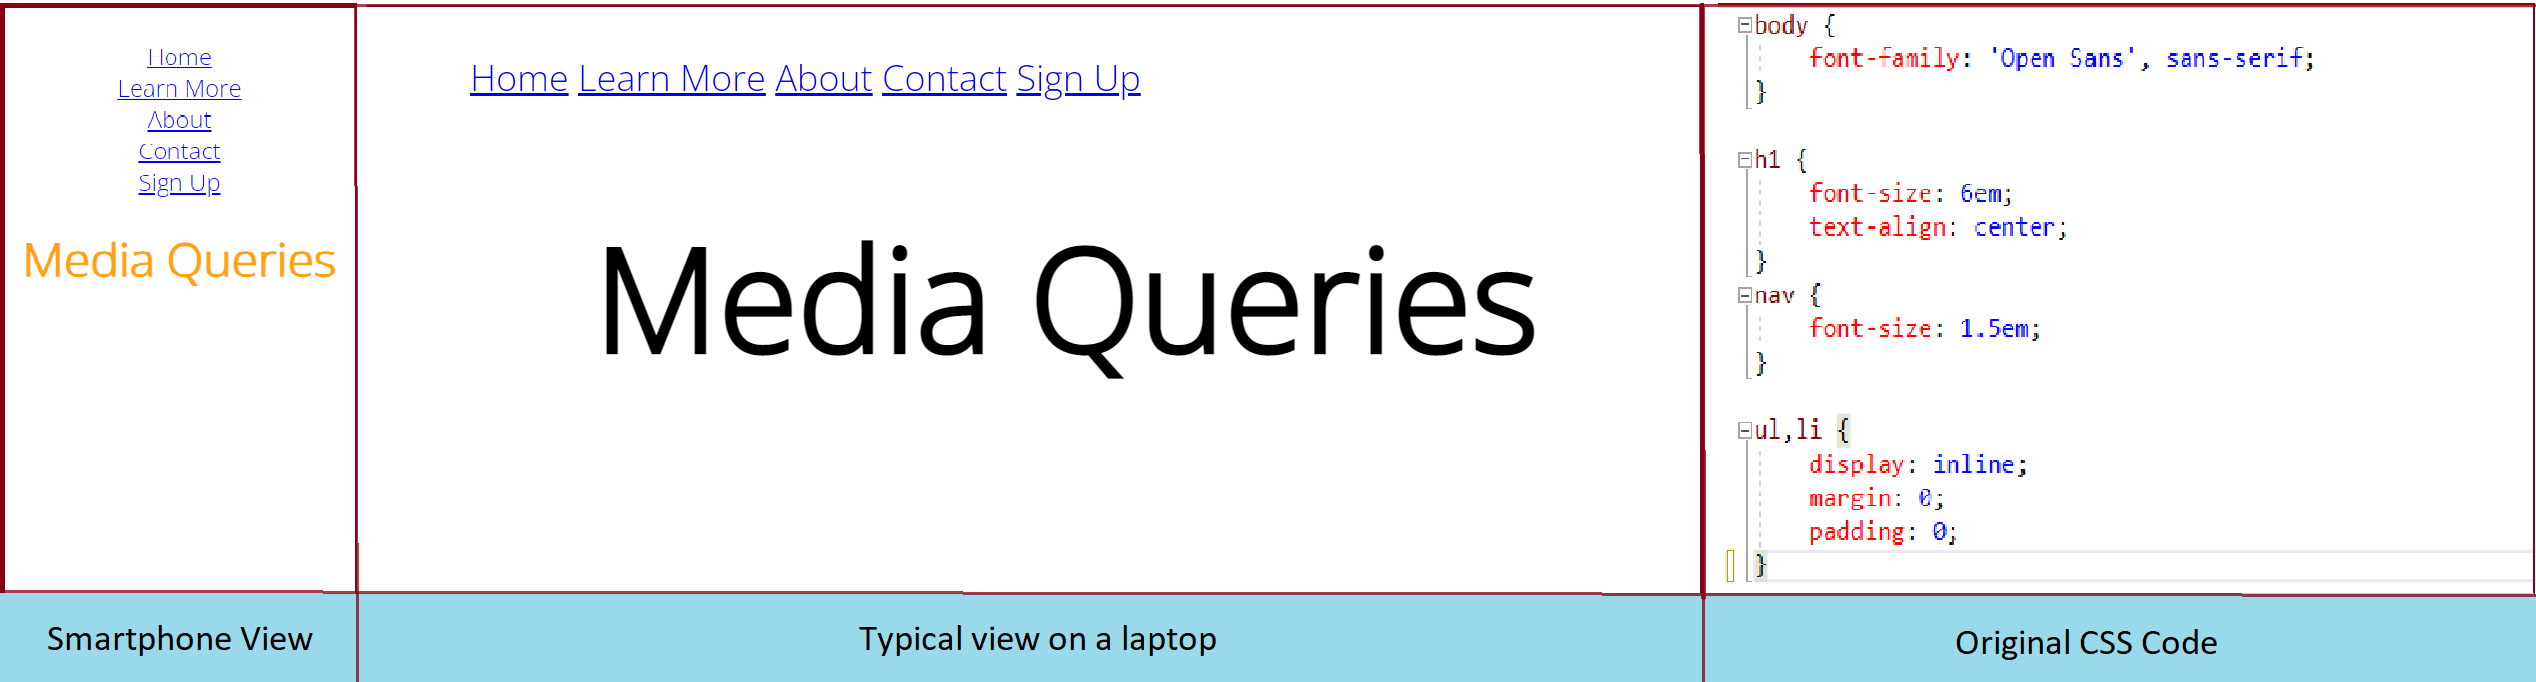
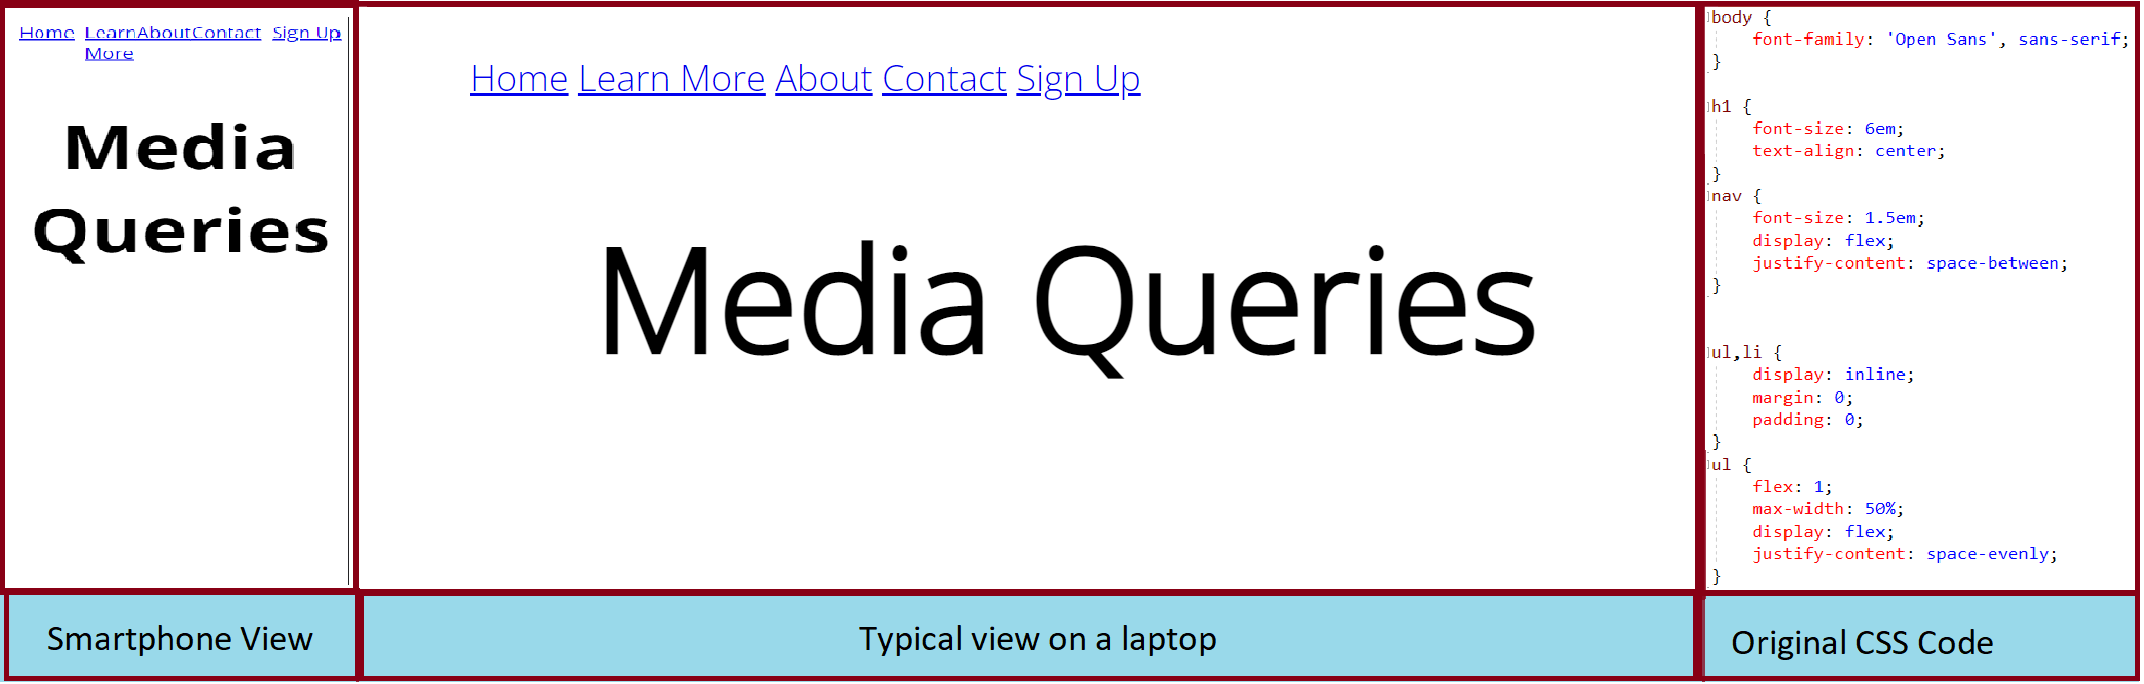
Small update

Changed region(s): [[0.0, 0.0, 1.0, 1.0], [0.3438, 0.9238, 0.5625, 0.9545], [0.6562, 0.2155, 0.7188, 0.2463]]

diff --git a/flexboxSection/flexboxPart2.html b/flexboxSection/flexboxPart2.html
@@ -140,74 +140,74 @@
         <h2><em>align-items</em></h2>
         <p>
             In Flexbox, the <strong>align-items</strong> property is used to align the items on the
-            <strong>cross-axis</strong> of a flex container. The
+            <strong>cross-axis</strong> of a flex container. Note how it constrasts with
+            <strong>justify-content</strong>! <strong>justify-content</strong> aligns items along the main axis, whereas
+            <strong>align-items</strong> aligns items along the cross axis! The
             cross-axis is the axis perpendicular to the main axis, which is determined by the
             <strong>flex-direction</strong> property.
         </p>
         <h3>Values of <em>align-items</em></h3>
         <p>The <strong>align-items</strong> property takes several possible values, including:</p>
         <ol>
-            <li><strong>stretch (default)</strong>: Stretches the items to fill the container along the cross axis. In
+            <li><strong>stretch (default)</strong>: Stretches the items to <strong>fill the container along the cross
+                    axis</strong>. In
                 non-flex items, the default is "normal".
-                <h4><strong>align-items:stretch;</strong></h4>
+                <pre>
+                    <code>
+                        #container {
+                            display: flex;
+                            flex-direction: row;
+                            justify-content: center;
+                            align-items:stretch;
+                            }
+                    </code>
+                    </pre>
                 <figure>
                     <img src="../images/flexboxImages/align-items-stretch.png" alt="align-items:stretch;">
-                    <figcaption><em>align-items:stretch;</em></figcaption>
+                    <figcaption><strong>align-items:stretch;</strong></figcaption>
                 </figure>
-                <pre>
-                <code>
-                    #container {
-                        display: flex;
-                        flex-direction: row;
-                        justify-content: center;
-                        align-items:stretch;
-                        }
-                </code>
-                </pre>
             </li>
-            <li><strong>flex-start</strong> aligns the items to the start of the container along the cross-axis.
-                <h4><strong>align-items:flex-start;</strong></h4>
-                <p>This will have an identical image to the one above!</p>
+            <li><strong>align-items:flex-start;</strong> aligns the items to the start of the container along the
+                cross-axis. If <strong>flex-direction</strong> is row, and <strong>justify-content</strong> is center,
+                we'll have an identical image to the one above!
             </li>
             <li><strong>flex-end</strong> aligns the items to the <strong>end</strong> of the container along the cross
                 axis.
-                <h4><strong>align-items:flex-end;</strong></h4>
+                <pre>
+                    <code>
+                        #container {
+                            display: flex;
+                            flex-direction: row;
+                            justify-content: center;
+                            align-items:flex-end;
+                            }
+                    </code>
+                    </pre>
                 <figure>
                     <img src="../images/flexboxImages/align-items-flex-end.png" alt="align-items:flex-end;">
-                    <figcaption><em>align-items:flex-end;</em></figcaption>
+                    <figcaption><strong>align-items:flex-end;</strong></figcaption>
                 </figure>
-                <pre>
-                <code>
-                    #container {
-                        display: flex;
-                        flex-direction: row;
-                        justify-content: center;
-                        align-items:flex-end;
-                        }
-                </code>
-                </pre>
             </li>
             <li><strong>center</strong> aligns the items to the center of the container along the cross axis. One really
                 <strong>key point</strong> to note is that if you want to center your items horizontally and vertically,
                 you can set both <strong>justify-content</strong> and <strong>align-items</strong> to <em>center</em>.
                 To really show the point, I did some (temporary) inline editing of the heights of two of the divs! The
                 <strong>HELLO</strong> is included to help reinforce the next point too!
-                <h4><strong>align-items:center;</strong></h4>
+                <pre>
+                    <code>
+                        #container {
+                            /*Some heights were changed to help show the effect*/
+                            display: flex;
+                            flex-direction: row;
+                            justify-content: center;
+                            align-items:center;
+                            }
+                    </code>
+                    </pre>
                 <figure>
                     <img src="../images/flexboxImages/align-items-center.png" alt="align-items:center;">
-                    <figcaption><em>align-items:center;</em></figcaption>
+                    <figcaption><strong>align-items:center;</strong></figcaption>
                 </figure>
-                <pre>
-                <code>
-                    #container {
-                        /*Some heights were changed to help show the effect*/
-                        display: flex;
-                        flex-direction: row;
-                        justify-content: center;
-                        align-items:center;
-                        }
-                </code>
-                </pre>
             </li>
             <li><strong>baseline</strong> aligns the items to the baseline of the contents of container along the
                 cross-axis. So,
@@ -215,21 +215,20 @@
                 the container. However, in the 2nd image, not all of the contents are aligned to the top of the
                 container: rather, the contents are aligned around the word HELLO: i.e. the contents are aligned to the
                 <strong>baseline!</strong>
-                <h4><strong>align-items:baseline;</strong></h4>
+                <pre>
+                    <code>
+                        #container {
+                            display: flex;
+                            flex-direction: row;
+                            justify-content: center;
+                            align-items:baseline;
+                            }
+                    </code>
+                    </pre>
                 <figure>
                     <img src="../images/flexboxImages/align-items-baseline.png" alt="align-items:baseline;">
-                    <figcaption><em>align-items:baseline;</em></figcaption>
+                    <figcaption><strong>align-items:baseline;</strong></figcaption>
                 </figure>
-                <pre>
-                <code>
-                    #container {
-                        display: flex;
-                        flex-direction: row;
-                        justify-content: center;
-                        align-items:baseline;
-                        }
-                </code>
-                </pre>
             </li>
         </ol>
         <h3>An example of combinations and their effect</h3>

diff --git a/flexboxSection/flexboxPart4.html b/flexboxSection/flexboxPart4.html
@@ -104,10 +104,6 @@
         </ol>
         <h2>Media Query Example</h2>
         <p>Please look at the following image, which uses the HTML code shown:</p>
-        <figure>
-            <img src="../images/flexboxImages/mediaquerynavbar.png" alt="navbar">
-            <figcaption><em>Showing the smartphone view, initial CSS code, and laptop view</em></figcaption>
-        </figure>
         <pre>
             <code>
                 &lt;body&gt;
@@ -133,6 +129,47 @@
                 &lt;/body&gt;
             </code>
         </pre>
+        <figure>
+            <img src="../images/flexboxImages/mediaquerynavbar.png" alt="navbar">
+            <figcaption><em>Showing the smartphone view, initial CSS code, and laptop view</em></figcaption>
+        </figure>
+        <p>We want to try and adjust this so that it looks good on both smartphone and laptop!</p>
+        <p>We must use a <strong>media query</strong> to achieve this! For a smartphone, which current discourse in the
+            community dictate has a maximum width of 480px, we can ensure that our CSS layout obeys it using:
+        <pre>
+            <code>
+                @media (max-width:480px){
+                    color:purple;
+                }
+            </code>
+        </pre>
+        </p>
+        <p>We want to try and adjust this so that it looks good on both smartphone and laptop!</p>
+        <pre>
+            <code>
+                @media (max-width:480px) {
+                    h1 {
+                        color: purple;
+                    }
+                }
+                @media (min-width:481px) and (max-width:768px) {
+                    h1 {
+                        color: orange;
+                    }
+                }
+                @media(min-width:768px) {
+                    h1 {
+                        color: red;
+                    }
+                }
+            </code>
+        </pre>
+        <figure>
+            <img src="../images/flexboxImages/mediaQueriesOnDevices.png" alt="navbar">
+            <figcaption>This shows the use of code to create different displays on different devices!</figcaption>
+        </figure>
+        <p>We must use a <strong>media query</strong> to achieve this! Play around with resizing the page <a
+                href="./flexboxMediaQuery.html">here</a></p>
         <p>Move on to <a href="flexboxNavbarMiniProject.html">the navigation bar project page</a></p>
     </main>
     <footer>

diff --git a/flexboxSection/flexboxMediaQuery.html b/flexboxSection/flexboxMediaQuery.html
@@ -1,0 +1,44 @@
+<!DOCTYPE html>
+<html lang="en">
+
+<head>
+    <meta charset="UTF-8">
+    <meta http-equiv="X-UA-Compatible" content="IE=edge">
+    <meta name="viewport" content="width=device-width, initial-scale=1.0">
+    <link rel="stylesheet" href="../resources/flexboxMedia.css">
+    <link rel="icon" href="../images/beauty_kanji.ico">
+    <meta name="author" content="Robert Bogan">
+    <meta name="description"
+        content="Welcome to my Colt Steele practice website, where I post examples of all of the projects I've worked on.">
+    <meta name="keywords" content="HTML, CSS, JavaScript, Colt Steele, web development">
+    <link rel="preconnect" href="https://fonts.googleapis.com">
+    <link rel="preconnect" href="https://fonts.gstatic.com" crossorigin>
+    <link
+        href="https://fonts.googleapis.com/css2?family=Open+Sans:ital,wght@0,400;0,700;1,400&family=PT+Sans:ital,wght@0,400;0,700;1,400&display=swap"
+        rel="stylesheet">
+    <title>FlexBox Navigation Bar</title>
+</head>
+
+<body>
+    <header>
+    </header>
+    <nav>
+        <a href="/">Home</a>
+        <ul>
+
+            <li>
+                <a href="/">Learn More</a>
+            </li>
+            <li>
+                <a href="/">About</a>
+            </li>
+            <li>
+                <a href="/">Contact</a>
+            </li>
+
+        </ul>
+        <a href="/">Sign Up</a>
+    </nav>
+    <h1>Media Queries</h1>
+    <p>All clicks go back home :)</p>
+</body>

diff --git a/resources/flexboxIntro.css b/resources/flexboxIntro.css
@@ -47,8 +47,8 @@ h2 {
     border: 5px solid #003049;
     display: flex;
     flex-direction: column;
-    justify-content: center;
     flex-wrap: wrap;
+    align-items: center;
 }
 
 #container div {
